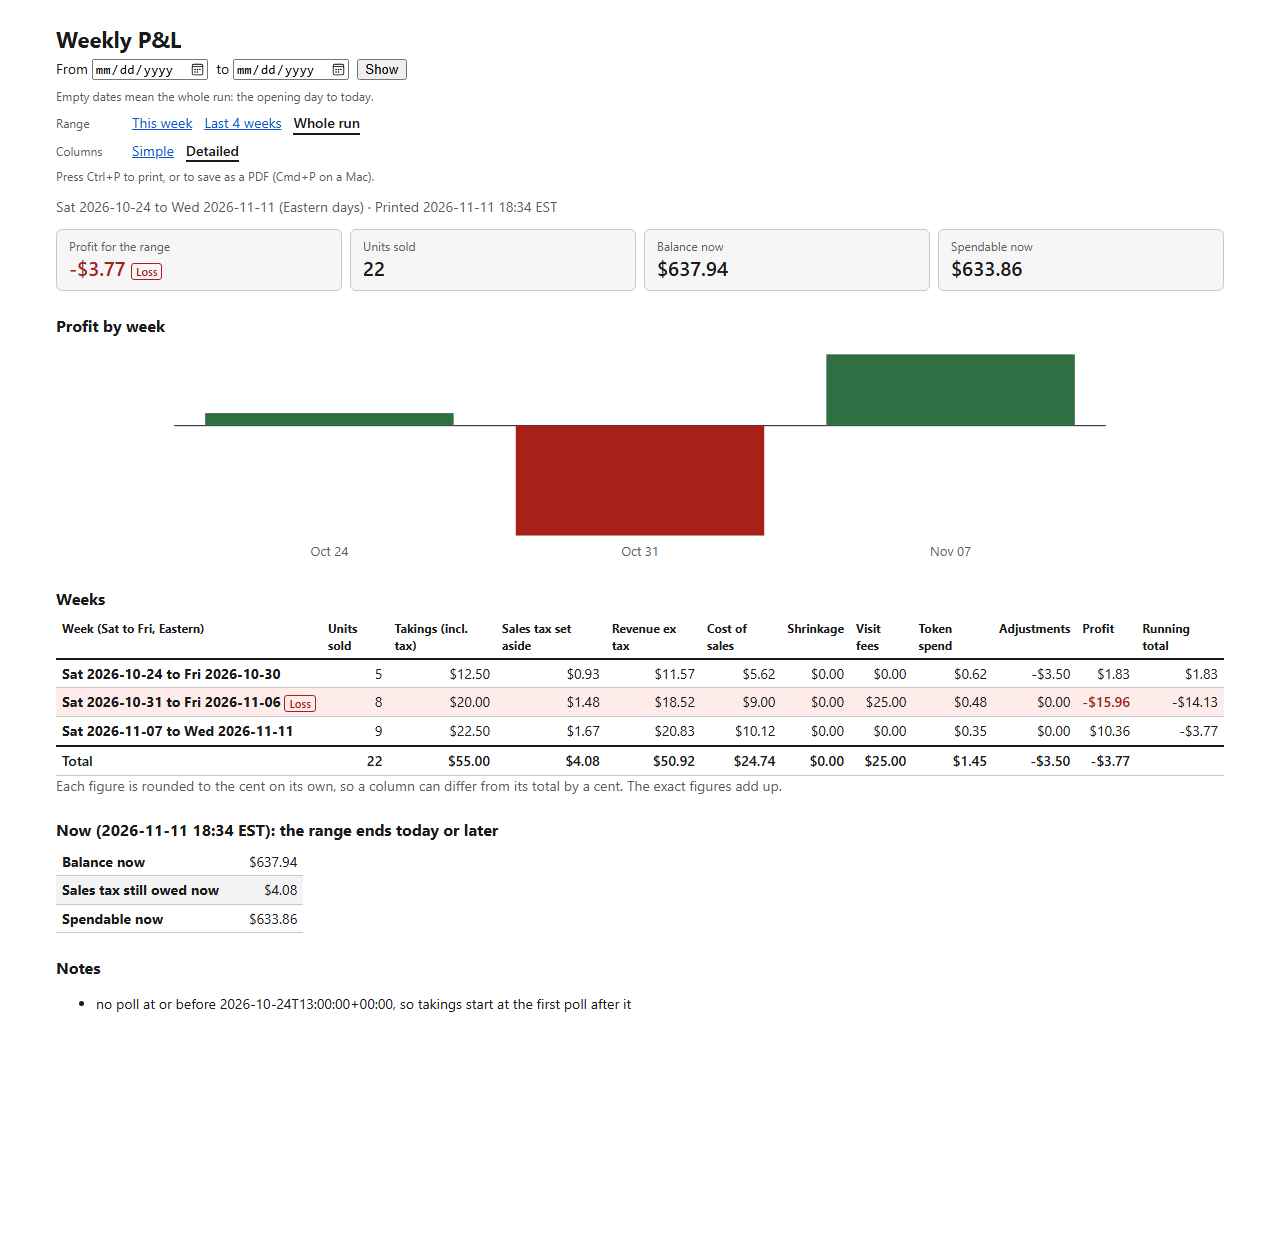
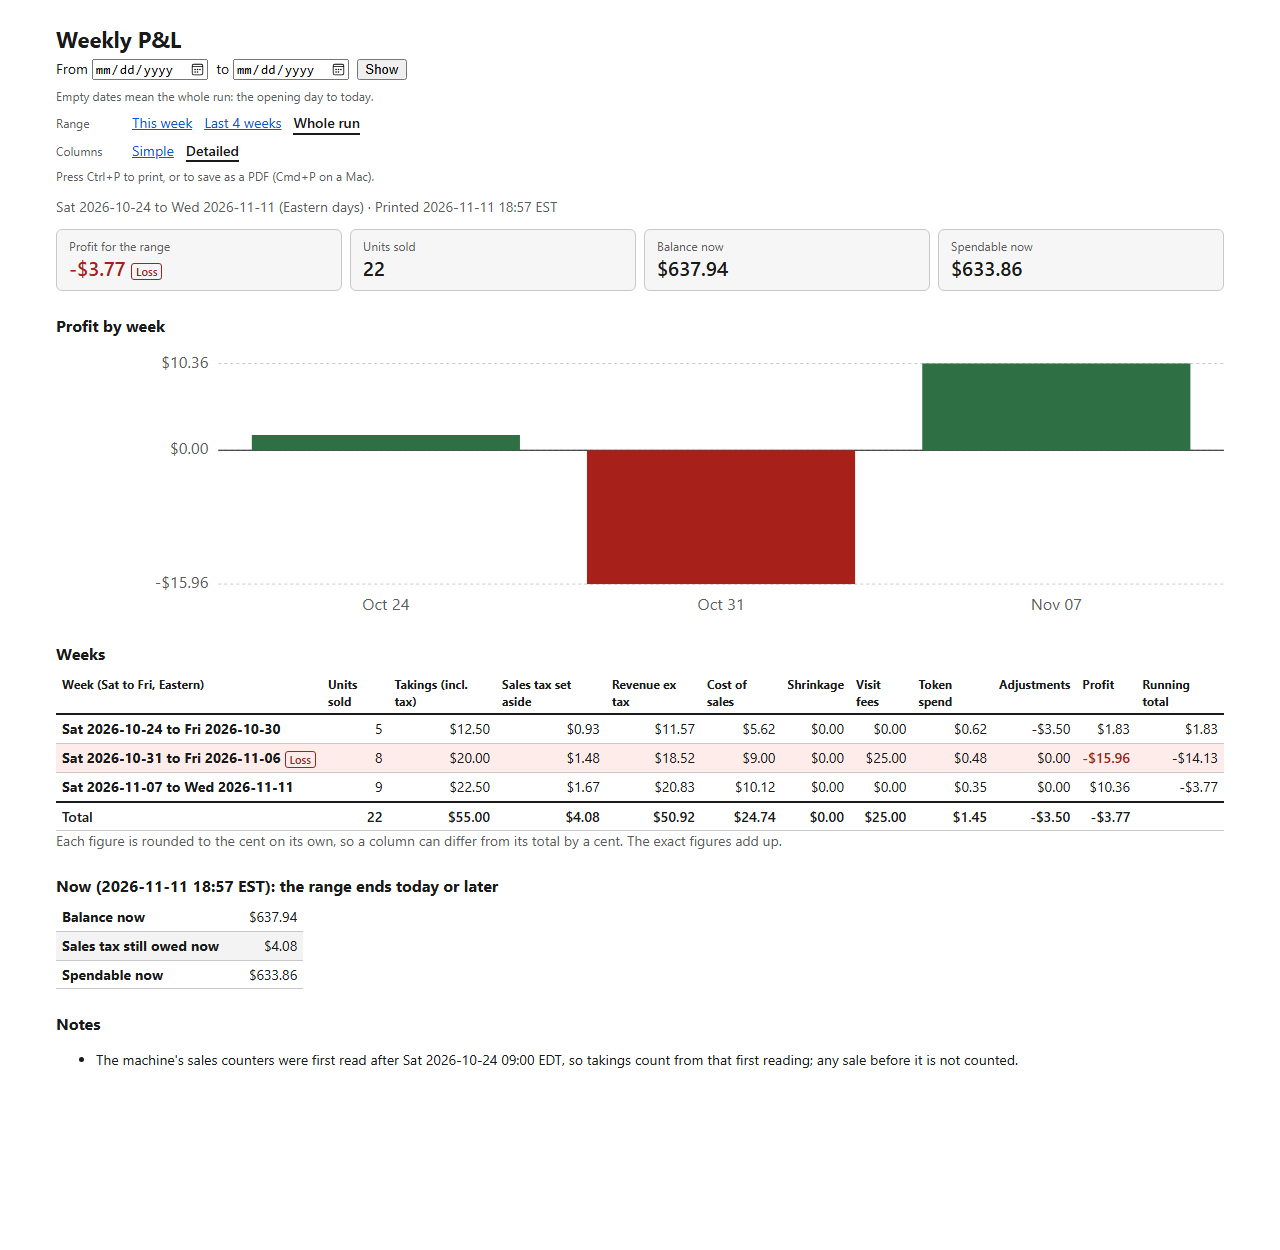
P&L page: plain notes, a chart scale, and phone and print fixes from review
- A week short by under half a cent shows $0.00, so it is no longer marked or charted as a loss.
- The chart gets a dollar scale and fills the page width; its test now checks where bars sit.
- The "poll" notes read as plain sentences, with the time in Eastern.
- At phone width a line says the table swipes sideways, and week dates wrap between days.
- Printing from a dark screen uses light colours for links, errors and bands too.
- Screenshots retaken.

diff --git a/vending/pnl_report.py b/vending/pnl_report.py
@@ -255,7 +255,7 @@ def week_row(w: ledger.WeekPnl, first: date, last: date, running: tuple[Fraction
     """One week; a week that lost money says "Loss" next to its dates, not only in colour."""
     cost_note = f"{w.units_costed} of {w.units_sold} units costed" if not w.cost_of_sales_complete else ""
     known = _known(w)
-    lost = known and w.net_cents < 0
+    lost = _lost(ledger.money(w.net_cents), known)        # by the figure shown: $0.00 is not a loss
     cells = {
         "units": _e(w.units_sold),
         "takings": amount(w.takings_cents),
@@ -269,7 +269,8 @@ def week_row(w: ledger.WeekPnl, first: date, last: date, running: tuple[Fraction
         "profit": amount(w.net_cents, known),
         "running": amount(running[0], running[1]),
     }
-    label = _e(week_label(w, first, last)) + (f" {LOSS}" if lost else "")
+    days = week_label(w, first, last).split(" to ")       # a narrow screen wraps between the days, not in one
+    label = " to ".join(f'<span class="day">{_e(d)}</span>' for d in days) + (f" {LOSS}" if lost else "")
     return _row(label, cells, view, "loss" if lost else "")
 
 
@@ -304,27 +305,34 @@ def _lost(text: str | None, known: bool) -> bool:
 
 def chart(weeks: list[ledger.WeekPnl], first: date, last: date) -> str:
     """Weekly profit as bars above and below a zero line, in inline SVG (no script). A week whose
-    profit is unknown gets a "?" at the zero line instead of a bar. Each bar's <title> gives its figure."""
+    profit is unknown gets a "?" at the zero line instead of a bar. Each bar's <title> gives its figure;
+    a scale on the left gives the top and bottom of the plot (and zero, when there is room) in dollars."""
     if not weeks:
         return ""
-    width, height, top, bottom = 720, 170, 8, 22
+    width, height, top, bottom, left = 720, 170, 12, 22, 100
     plot = height - top - bottom
     known = [w.net_cents for w in weeks if _known(w)]
     high, low = max([Fraction(0), *known]), min([Fraction(0), *known])
     span = (high - low) or Fraction(1)
     zero = top + plot * high / span
-    slot = Fraction(width, len(weeks))
+    slot = Fraction(width - left, len(weeks))
     every = max(1, len(weeks) // 12)                        # at most about 12 date labels
     px = lambda v: f"{float(v):.1f}"  # noqa: E731  (pixels, not money)
+    marks = [(Fraction(top), high)] + ([(Fraction(top + plot), low)] if low != high else [])
+    if 0 not in (high, low) and min(zero - top, top + plot - zero) >= 26:   # room for a "$0.00" label
+        marks.insert(1, (zero, Fraction(0)))
+    scale = "".join(f'<line class="grid" x1="{left}" x2="{width}" y1="{px(y)}" y2="{px(y)}"></line>'
+                    f'<text class="scale" x="{left - 6}" y="{px(y)}" text-anchor="end" dominant-baseline="middle">'
+                    f'{_e(dollars(ledger.money(v)))}</text>' for y, v in marks)
     bars, losing = [], 0
     for i, w in enumerate(weeks):
         label = week_label(w, first, last)
-        x = slot * i + slot / 10
+        x = left + slot * i + slot / 10
         if _known(w):
-            kind = "neg" if w.net_cents < 0 else "pos"
+            kind = "neg" if _lost(ledger.money(w.net_cents), True) else "pos"   # as the table shows it
             losing += kind == "neg"
             size = plot * abs(w.net_cents) / span
-            y = zero if w.net_cents < 0 else zero - size
+            y = zero if kind == "neg" else zero - size
             tip = f"{label}: {dollars(ledger.money(w.net_cents))}" + (" (loss)" if kind == "neg" else "")
             bars.append(f'<rect class="bar {kind}" x="{px(x)}" y="{px(y)}" width="{px(slot * 8 / 10)}" '
                         f'height="{px(max(size, Fraction(1, 2)))}"><title>{_e(tip)}</title></rect>')
@@ -340,7 +348,7 @@ def chart(weeks: list[ledger.WeekPnl], first: date, last: date) -> str:
             'aria-labelledby="chart-title chart-desc">'
             '<title id="chart-title">Profit by week</title>'
             f'<desc id="chart-desc">{_e(desc)}</desc>'
-            f'<line class="zero" x1="0" x2="{width}" y1="{px(zero)}" y2="{px(zero)}"></line>'
+            f'{scale}<line class="zero" x1="{left}" x2="{width}" y1="{px(zero)}" y2="{px(zero)}"></line>'
             + "".join(bars) + "</svg>")
 
 
@@ -360,7 +368,8 @@ def render(report: Report) -> tuple[int, str]:
                    for w, r in zip(report.weeks, running_totals(report.weeks)))
     hint = ("" if report.view == "detailed" else
             '<p class="meta">Profit also counts shrinkage and adjustments; Detailed shows them.</p>')
-    table = (f'<div class="scroll"><table class="weeks"><thead><tr>{head}</tr></thead><tbody>{rows}</tbody>'
+    swipe = '<p class="meta swipe no-print">The table is wider than the screen: swipe it sideways for profit.</p>'
+    table = (f'{swipe}<div class="scroll"><table class="weeks"><thead><tr>{head}</tr></thead><tbody>{rows}</tbody>'
              f'<tfoot>{totals_row(t, report.weeks, report.view)}</tfoot></table></div>'
              f'{hint}<p class="meta">{_e(ROUNDING_NOTE)}</p>')
     figure = chart(report.weeks, first, last)
@@ -468,6 +477,28 @@ def _note_key(note: str) -> str:
     return note[:match.start(1)] + moment.astimezone(timezone.utc).isoformat() + note[match.end(1):]
 
 
+_NO_POLL_NOTE = re.compile(r"^no poll at or before (\S+), so takings start at the first poll after it$")
+_NO_POLLS_NOTE = "no polls in the window, so takings are unknown and counted as 0"
+
+
+def plain_note(note: str) -> str:
+    """A ledger note as a sentence a teammate can read: the "poll" notes in plain words, with Eastern time."""
+    if note == _NO_POLLS_NOTE:
+        return "The machine's sales counters were not read in this range, so takings are unknown and counted as $0.00."
+    match = _NO_POLL_NOTE.match(note)
+    if match is not None:
+        try:
+            moment = datetime.fromisoformat(match.group(1))
+        except ValueError:
+            moment = None
+        if moment is not None and moment.tzinfo is not None:
+            when = moment.astimezone(EASTERN)
+            return (f"The machine's sales counters were first read after {when:%a %Y-%m-%d %H:%M %Z}, so"
+                    " takings count from that first reading; any sale before it is not counted.")
+    text = note[:1].upper() + note[1:]
+    return text if text.endswith(".") else text + "."
+
+
 def _notes(t: Pnl, b: AccountBalance | None) -> str:
     notes, seen = [], set()
     for note in list(t.notes) + (list(b.notes) if b is not None else []):
@@ -476,7 +507,7 @@ def _notes(t: Pnl, b: AccountBalance | None) -> str:
             notes.append(note)
     if not notes:
         return ""
-    return '<h2>Notes</h2><ul class="notes">' + "".join(f"<li>{_e(n)}</li>" for n in notes) + "</ul>"
+    return '<h2>Notes</h2><ul class="notes">' + "".join(f"<li>{_e(plain_note(n))}</li>" for n in notes) + "</ul>"
 
 
 STYLE = """
@@ -506,17 +537,24 @@ form { margin: 0 0 8px; display: flex; flex-wrap: wrap; gap: 8px; align-items: c
 .tile.loss .tile-value { color: var(--loss); }
 .cue { display: inline-block; font-size: 11px; font-weight: 600; color: var(--loss); border: 1px solid var(--loss);
        border-radius: 3px; padding: 0 4px; vertical-align: middle; }
-.chart { display: block; width: 100%; height: auto; max-height: 220px; }
+.chart { display: block; width: 100%; height: auto; }
 .chart .bar.pos { fill: var(--gain); } .chart .bar.neg { fill: var(--loss); }
 .chart .bar.unknown { fill: var(--muted); font-size: 12px; }
 .chart .zero { stroke: var(--ink); stroke-width: 1; vector-effect: non-scaling-stroke; }
-.chart .axis { fill: var(--muted); font-size: 10px; }
-@media (max-width: 600px) { .chart .axis { font-size: 22px; } .chart .bar.unknown { font-size: 26px; } }
+.chart .axis, .chart .scale { fill: var(--muted); font-size: 10px; }
+.chart .grid { stroke: var(--rule); stroke-dasharray: 3 3; vector-effect: non-scaling-stroke; }
+.swipe { display: none; }
+@media (max-width: 600px) {
+  .chart .axis { font-size: 22px; } .chart .scale { font-size: 20px; } .chart .bar.unknown { font-size: 26px; }
+  .swipe { display: block; }
+  table.weeks tbody th, table.weeks tfoot th { white-space: normal; min-width: 8.5em; }
+}
 .scroll { overflow-x: auto; }
 table { border-collapse: collapse; width: 100%; font-variant-numeric: tabular-nums; }
 th, td { border-bottom: 1px solid var(--rule); padding: 4px 6px; text-align: left; vertical-align: top; }
 thead th { font-size: 12px; border-bottom: 2px solid var(--ink); }
 td.num { text-align: right; white-space: nowrap; }
+.day { white-space: nowrap; }
 tbody th { white-space: nowrap; }
 tfoot th, tfoot td { border-top: 2px solid var(--ink); font-weight: 600; }
 tbody tr:nth-child(even) { background: var(--band); }
@@ -526,8 +564,8 @@ table.balance { width: auto; } table.balance th { padding-right: 24px; }
 .unknown { font-style: italic; } small { color: var(--muted); }
 .error { color: var(--error); font-weight: 600; }
 @media print {
-  :root { color-scheme: light; --ink: #000; --muted: #444; --rule: #bbb; --bg: #fff; --tile: #fff; --loss: #8b1a14;
-          --loss-bg: #fff; --gain: #2f6f44; }
+  :root { color-scheme: light; --ink: #000; --muted: #444; --rule: #bbb; --band: #fff; --bg: #fff; --tile: #fff;
+          --link: #0b57d0; --loss: #8b1a14; --loss-bg: #fff; --gain: #2f6f44; --error: #9b1c1c; }
   @page { size: landscape; margin: 12mm; }
   body { margin: 0; max-width: none; padding: 0; font-size: 9pt; }
   .no-print { display: none; }

diff --git a/tests/test_pnl_report.py b/tests/test_pnl_report.py
@@ -173,6 +173,21 @@ def test_a_losing_week_is_marked_with_text_not_only_colour():
     assert "Loss" not in pr.week_row(unknown, date(2026, 11, 1), date(2026, 11, 30), (unknown.net_cents, False))
 
 
+def test_a_week_short_by_less_than_half_a_cent_is_not_a_loss():
+    tiny = week(takings_cents=100, tax_cents=0, units_sold=1, units_costed=1, cost_of_sales_cents=Fraction(301, 3))
+    assert tiny.net_cents < 0 and pr.amount(tiny.net_cents) == "$0.00"
+    row = pr.week_row(tiny, date(2026, 11, 1), date(2026, 11, 30), (tiny.net_cents, True))
+    assert "loss" not in row.lower()
+    svg = pr.chart([tiny], date(2026, 11, 1), date(2026, 11, 30))
+    assert 'class="bar neg"' not in svg and "(loss)" not in svg
+
+
+def test_a_week_label_wraps_between_its_days_not_inside_a_date():
+    row = pr.week_row(week(), date(2026, 11, 9), date(2026, 11, 11), (week().net_cents, True))
+    assert '<span class="day">Mon 2026-11-09</span> to <span class="day">Wed 2026-11-11</span>' in row
+    assert ".day { white-space: nowrap; }" in pr.STYLE
+
+
 def tiles(body: str) -> str:
     return body.split('<section class="tiles"')[1].split("</section>")[0]
 
@@ -193,6 +208,15 @@ def test_the_chart_has_one_bar_per_week_and_escaped_labels(monkeypatch):
     assert svg.count('class="bar neg"') == 1 and svg.count('class="bar pos"') == 1
     assert svg.count('class="bar unknown"') == 1
     assert 'class="zero"' in svg
+    zero = float(re.search(r'class="zero"[^>]*y1="([\d.]+)"', svg).group(1))
+    bars = [(kind, float(y), float(h)) for kind, y, h in
+            re.findall(r'class="bar (neg|pos)" x="[\d.]+" y="([\d.]+)" width="[\d.]+" height="([\d.]+)"', svg)]
+    (_, loss_y, loss_h), (_, gain_y, gain_h) = bars
+    assert loss_y == pytest.approx(zero, abs=0.1)           # a loss hangs below the zero line
+    assert gain_y + gain_h == pytest.approx(zero, abs=0.1)  # a profit stands on it
+    assert gain_h / loss_h == pytest.approx(float(abs(weeks[1].net_cents / weeks[0].net_cents)), rel=0.01)
+    scale = re.findall(r'<text class="scale"[^>]*>(.*?)</text>', svg)
+    assert scale[0] == "$5.95" and scale[-1] == "-$44.05"  # the scale gives the top and bottom in dollars
     monkeypatch.setattr(pr, "week_label", lambda w, first, last: "<b>&")
     escaped = pr.chart(weeks, date(2026, 10, 31), date(2026, 11, 20))
     assert "<b>" not in escaped and "&lt;b&gt;&amp;" in escaped
@@ -203,6 +227,9 @@ def test_the_page_says_how_to_print_without_a_script():
     _, body = pr.render(pr.Report(None, None, PRINTED, totals(), [week()]))
     assert "<script" not in body and "Press Ctrl+P to print" in body
     assert "prefers-color-scheme: dark" in body
+    printed = body.split("@media print")[1].split("}")[0]
+    for token in ("--error", "--link", "--band", "--ink", "--bg", "--loss"):
+        assert f"{token}:" in printed                    # a dark screen doesn't print pale text on white
 
 
 def test_the_same_note_with_a_different_timestamp_is_shown_once():
@@ -212,7 +239,20 @@ def test_the_same_note_with_a_different_timestamp_is_shown_once():
              "no sales in the window"]
     body = pr.render(pr.Report(None, None, PRINTED, totals(notes=notes), [week()]))[1]
     items = re.findall(r"<li>(.*?)</li>", body.split('<ul class="notes">')[1])
-    assert items == [notes[0], notes[2], notes[3]]
+    assert items == [
+        "The machine&#x27;s sales counters were first read after Sat 2026-10-24 09:00 EDT, so takings count from "
+        "that first reading; any sale before it is not counted.",
+        "The machine&#x27;s sales counters were first read after Sun 2026-10-25 09:00 EDT, so takings count from "
+        "that first reading; any sale before it is not counted.",
+        "No sales in the window."]
+
+
+def test_notes_are_plain_sentences():
+    assert pr.plain_note("no polls in the window, so takings are unknown and counted as 0") == (
+        "The machine's sales counters were not read in this range, so takings are unknown and counted as $0.00.")
+    assert pr.plain_note("2 entries are dated before x") == "2 entries are dated before x."
+    assert pr.plain_note("no poll at or before soon, so takings start at the first poll after it") == (
+        "No poll at or before soon, so takings start at the first poll after it.")   # not a time: kept as given
 
 
 # --- Database -----------------------------------------------------------------------------------

diff --git a/docs/pnl-report.md b/docs/pnl-report.md
@@ -24,13 +24,14 @@ the weeks table, the balance at the end of the range, and the notes.
 the range, labelled the same way as the balance table ("Balance now", or "Balance at the end of
 Mon 2026-11-09"). When the range ends before the ledger opened, the balance tiles are left out.
 
-**Chart.** One bar per week: profit above the zero line, a loss below it. Each bar's tooltip gives
+**Chart.** One bar per week: profit above the zero line, a loss below it. A scale on the left gives
+the top and bottom of the chart in dollars, and zero when there is room. Each bar's tooltip gives
 the week and its profit. A week whose profit is unknown shows "?" instead of a bar. It is inline
 SVG with a title and description for screen readers, and needs no script.
 
-**Losing weeks.** A week with profit below zero has a tinted row, red profit and a **Loss** tag
+**Losing weeks.** A week whose profit shows below $0.00 has a tinted row, red profit and a **Loss** tag
 next to its dates, so it shows in print and without colour too. A week whose profit is unknown is
-not marked.
+not marked, and neither is a week short by under half a cent, which shows as $0.00.
 
 One row per week. A week runs **Saturday to Friday, Eastern time**, the ledger's week: it turns
 over after the Friday visit, and the sales tax is rounded per week (the team's 19 Oct decision).
@@ -107,7 +108,8 @@ controls, keeps the tiles, chart and table, prints in light colours, and fits th
 page width in landscape.
 
 **Light and dark.** The page follows the browser's light or dark setting. At phone width only the
-weeks table scrolls sideways.
+weeks table scrolls sideways; a line above it says so, and the week's dates wrap between the two
+days so more columns fit.
 
 ![Simple view, dark](pnl-report/whole-run-simple-1280-dark.png)
 
@@ -133,3 +135,7 @@ range is refused with a message.
 
 The notes from the P&L and the balance are listed once each. The ledger can give the same "no poll
 at or before ..." note with one moment in UTC and in Eastern time; the page shows it once.
+The "poll" notes are reworded in plain language with the time in Eastern, for example "The
+machine's sales counters were first read after Sat 2026-10-24 09:00 EDT, so takings count from
+that first reading; any sale before it is not counted." Other notes are shown as the ledger
+gives them, starting with a capital and ending with a full stop.
